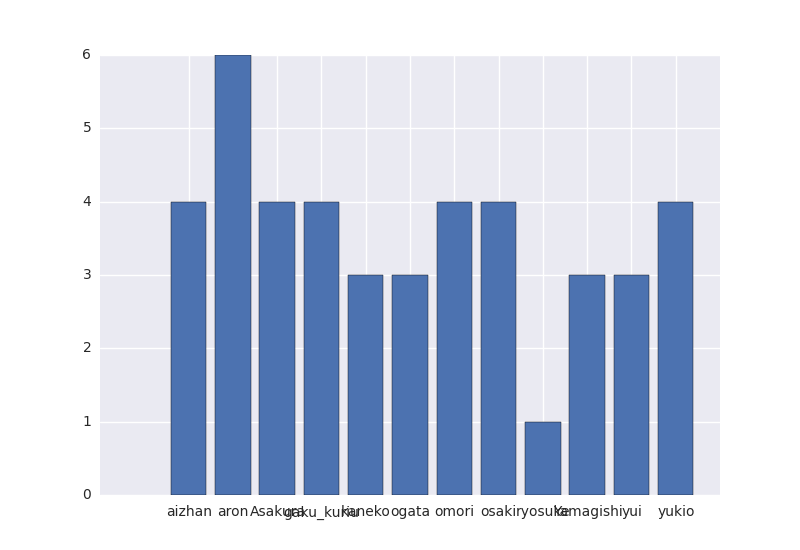
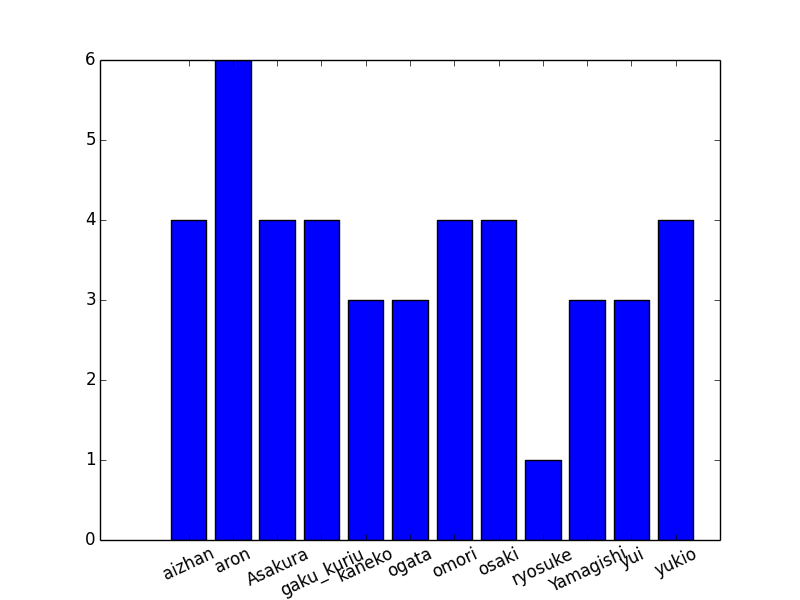
5/31

diff --git a/see_progress.py b/see_progress.py
@@ -1,6 +1,6 @@
 #!/usr/bin/python
 #-*-coding:utf-8-*-
-import seaborn
+#import seaborn
 import os
 import os.path
 import numpy as np
@@ -33,7 +33,7 @@ def showProgress(progress):
     X = range(len(progress.keys()))
     Y = progress.values()
     plt.bar(X,Y, align='center')
-    plt.xticks(X,progress.keys())
+    plt.xticks(X,progress.keys(),rotation =25)
     plt.show()
 
 def main():
